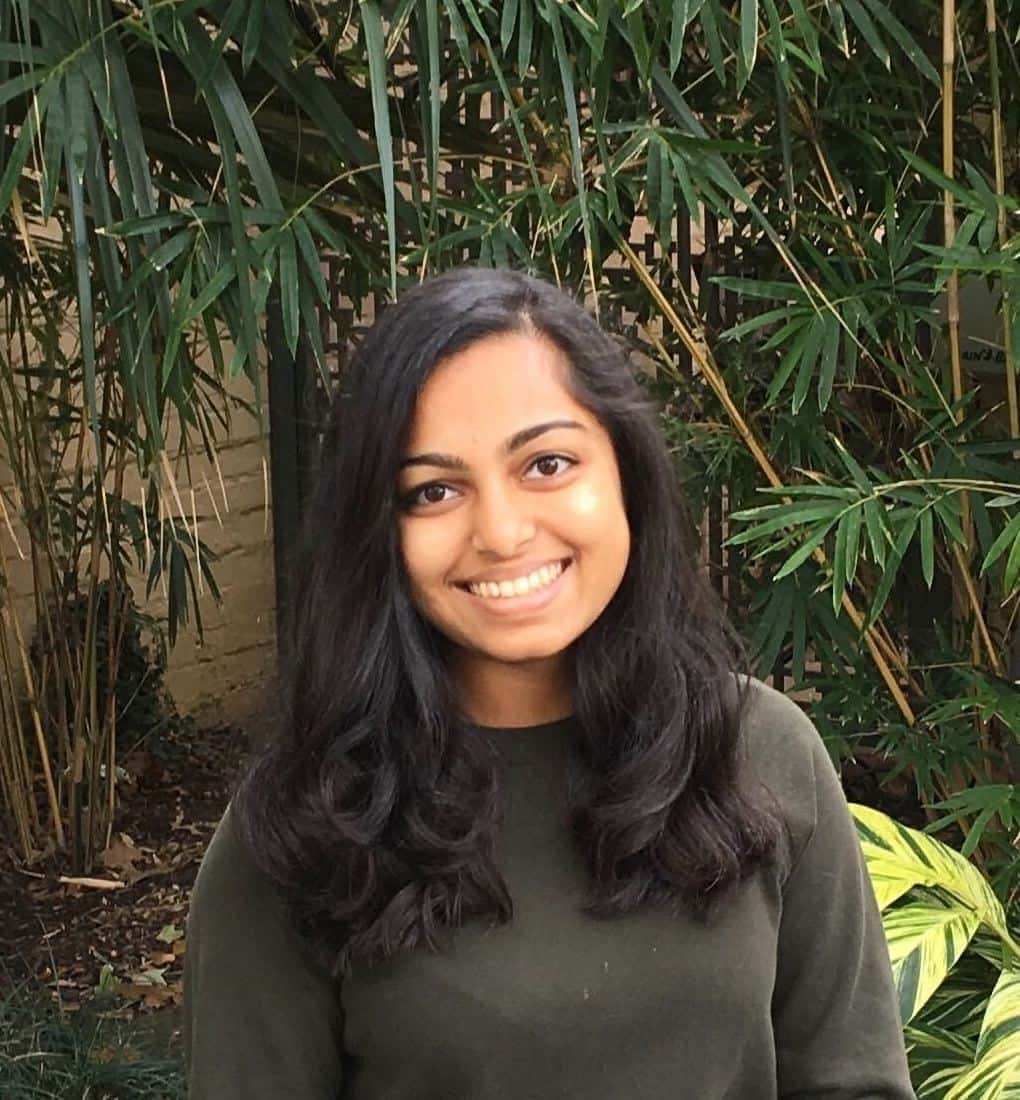
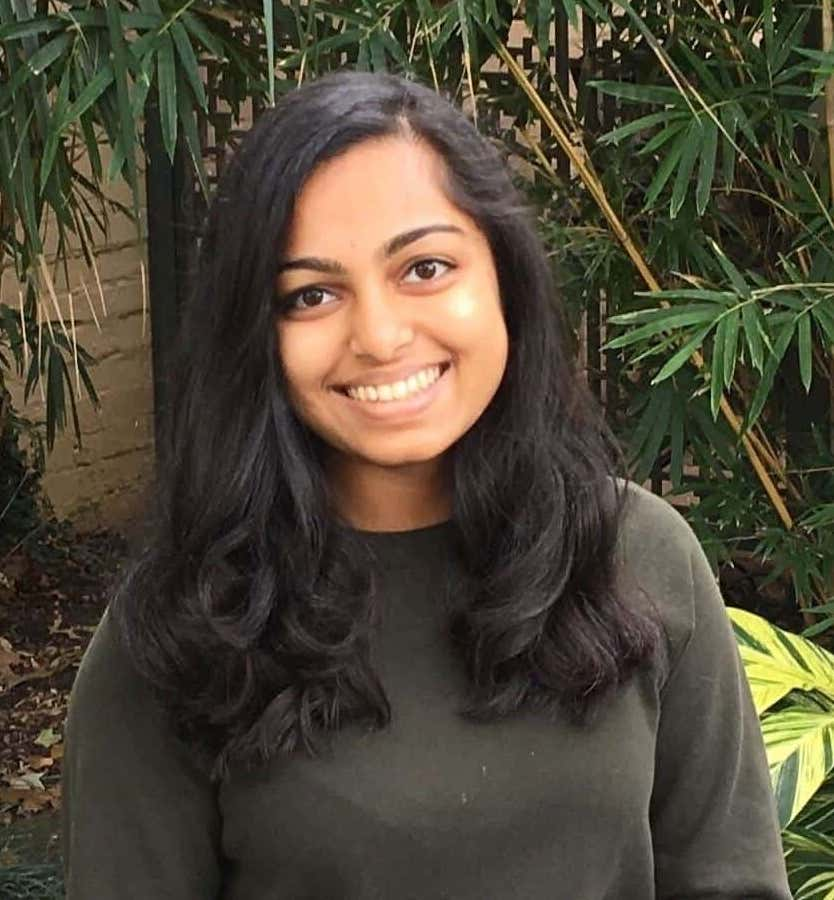
Updated position titles for Matt and Connor, fixed image for Sahana

diff --git a/about.html b/about.html
@@ -118,7 +118,7 @@
                             <div class="about-bio-name main-font">Matt<br>Bierman</div>
 
                             <!-- Title -->
-                            <div class="about-bio-title sub-font">CEO/Founder</div>
+                            <div class="about-bio-title sub-font">Founder, Chief Executive Officer</div>
 
                             <!-- Social Media Links -->
                             <div class="about-bio-social">
@@ -140,7 +140,7 @@
                             <div class="about-bio-name main-font">Connor<br>Holmes</div>
 
                             <!-- Title -->
-                            <div class="about-bio-title sub-font">Director of Design</div>
+                            <div class="about-bio-title sub-font">Chief Design Officer</div>
                         </div>
 
                         <div id="team-connor" class="team-member-selector"></div>
